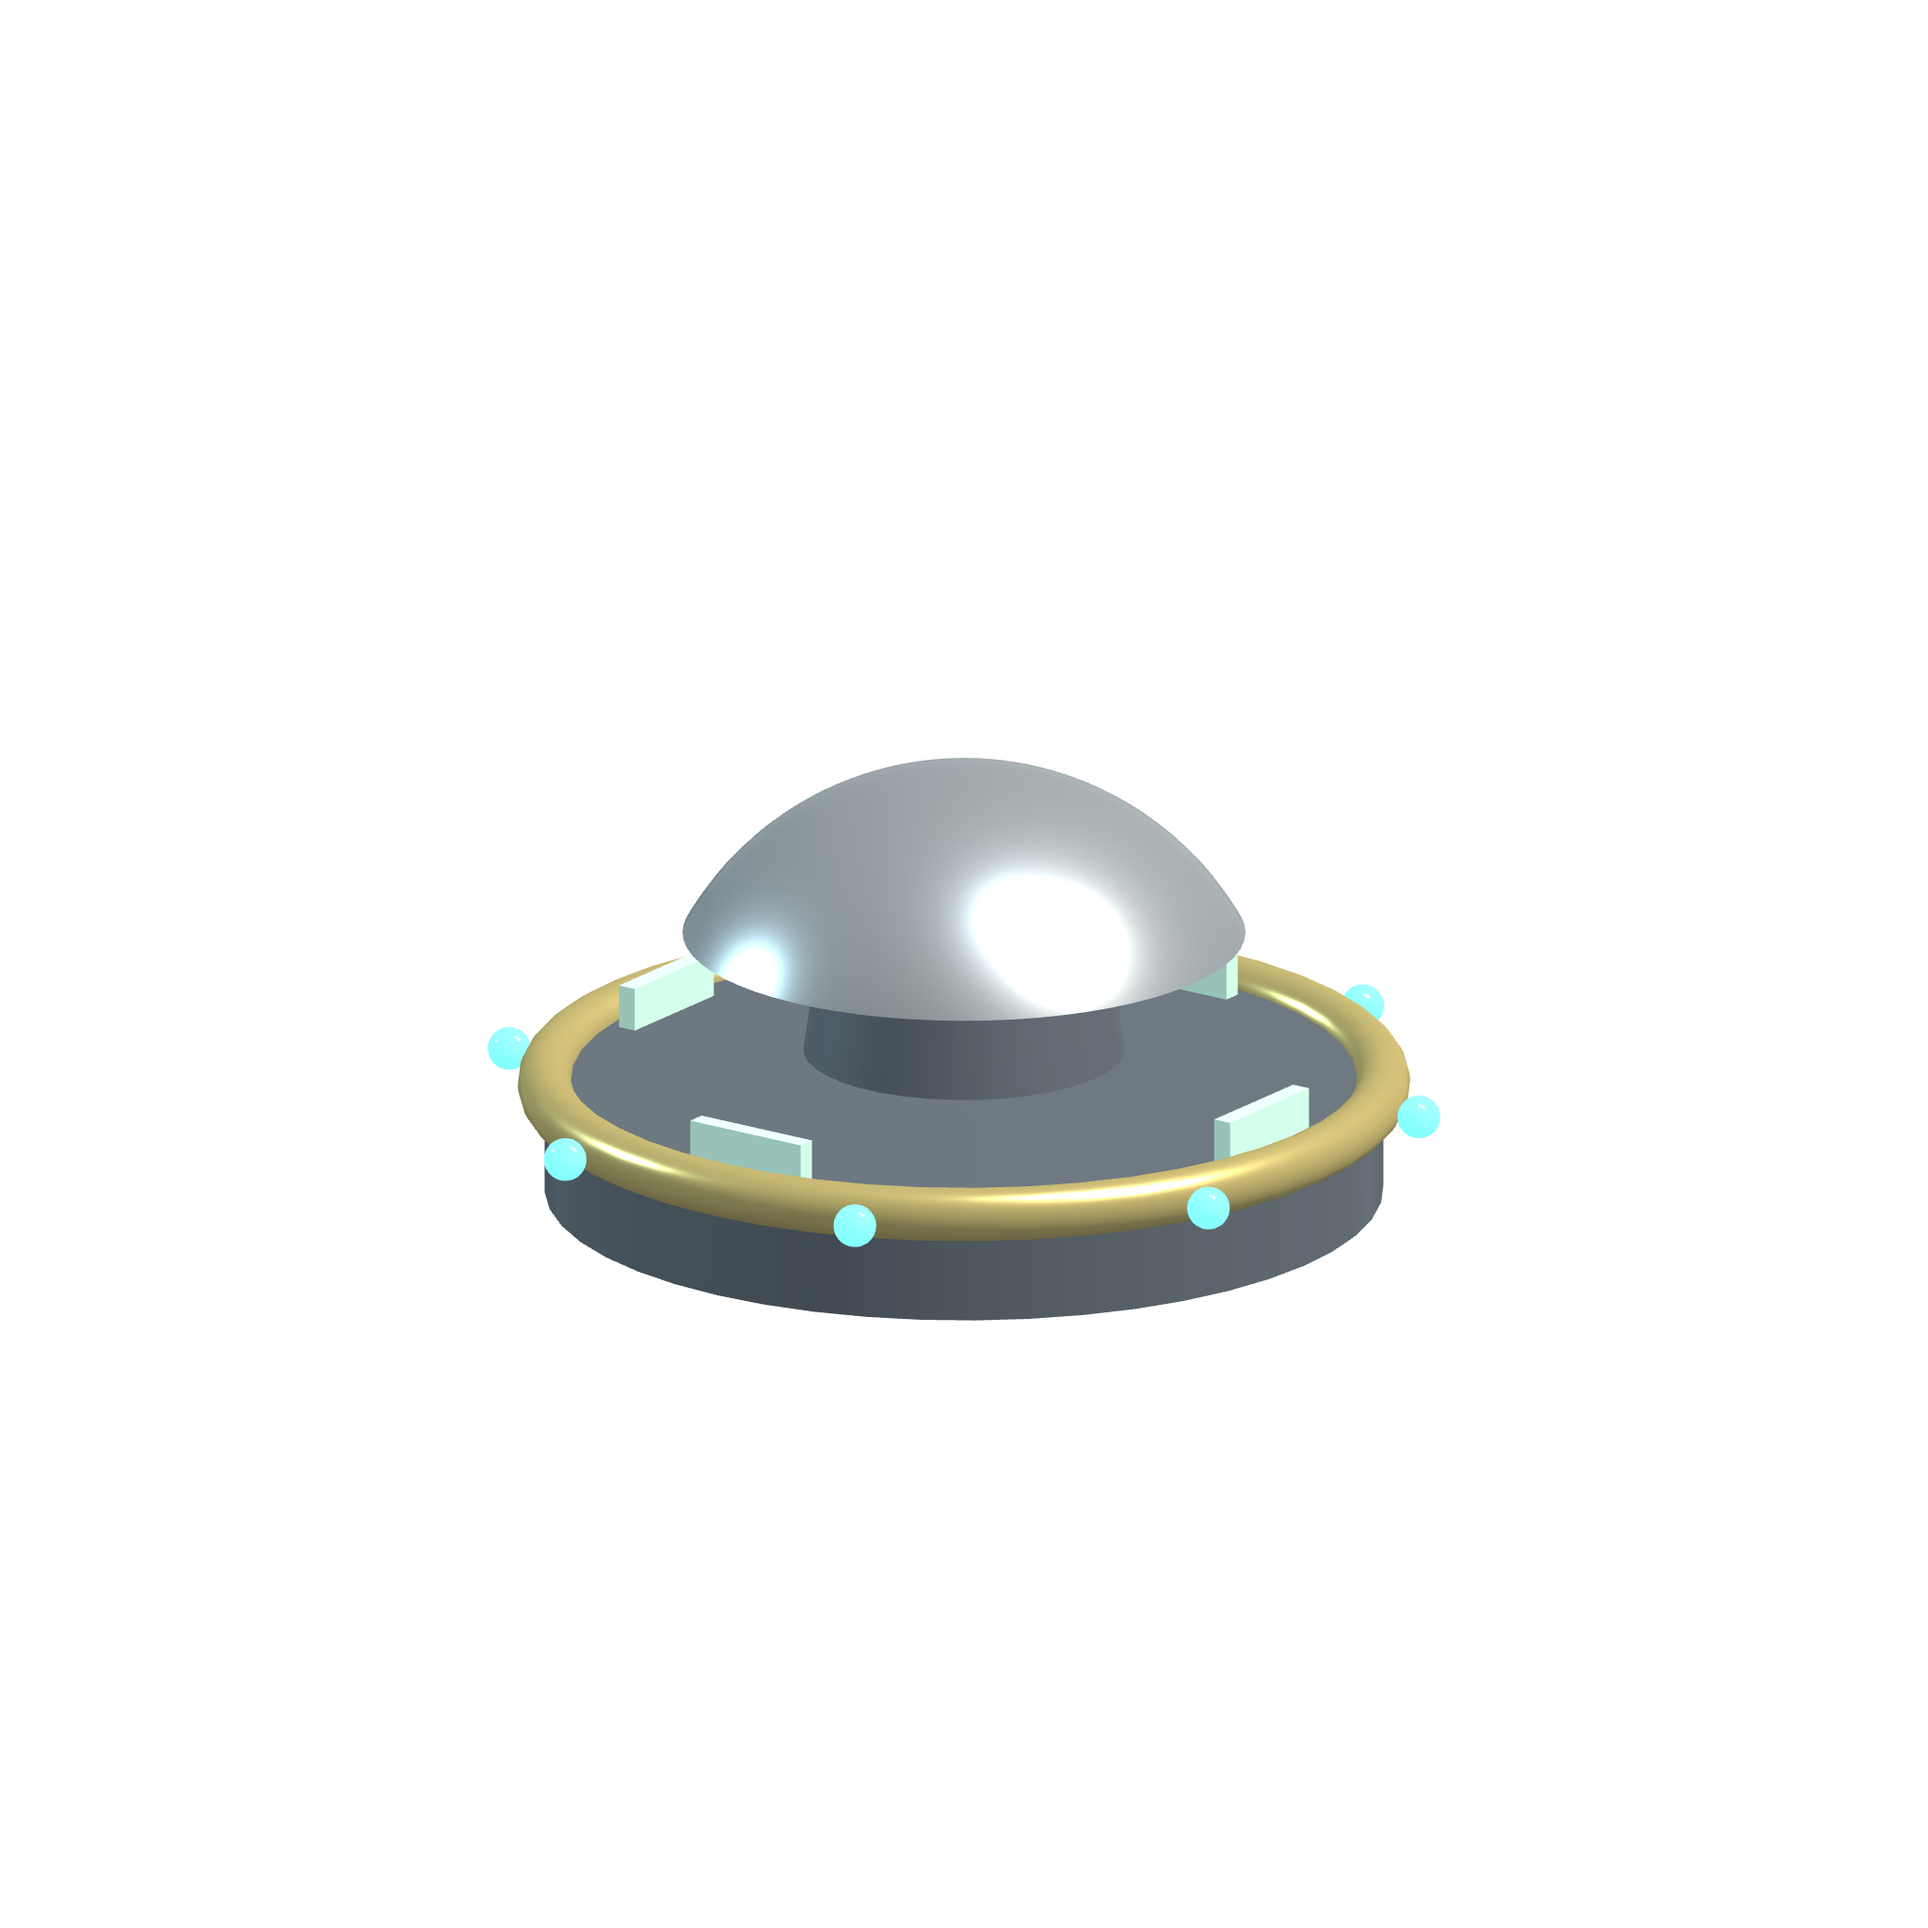
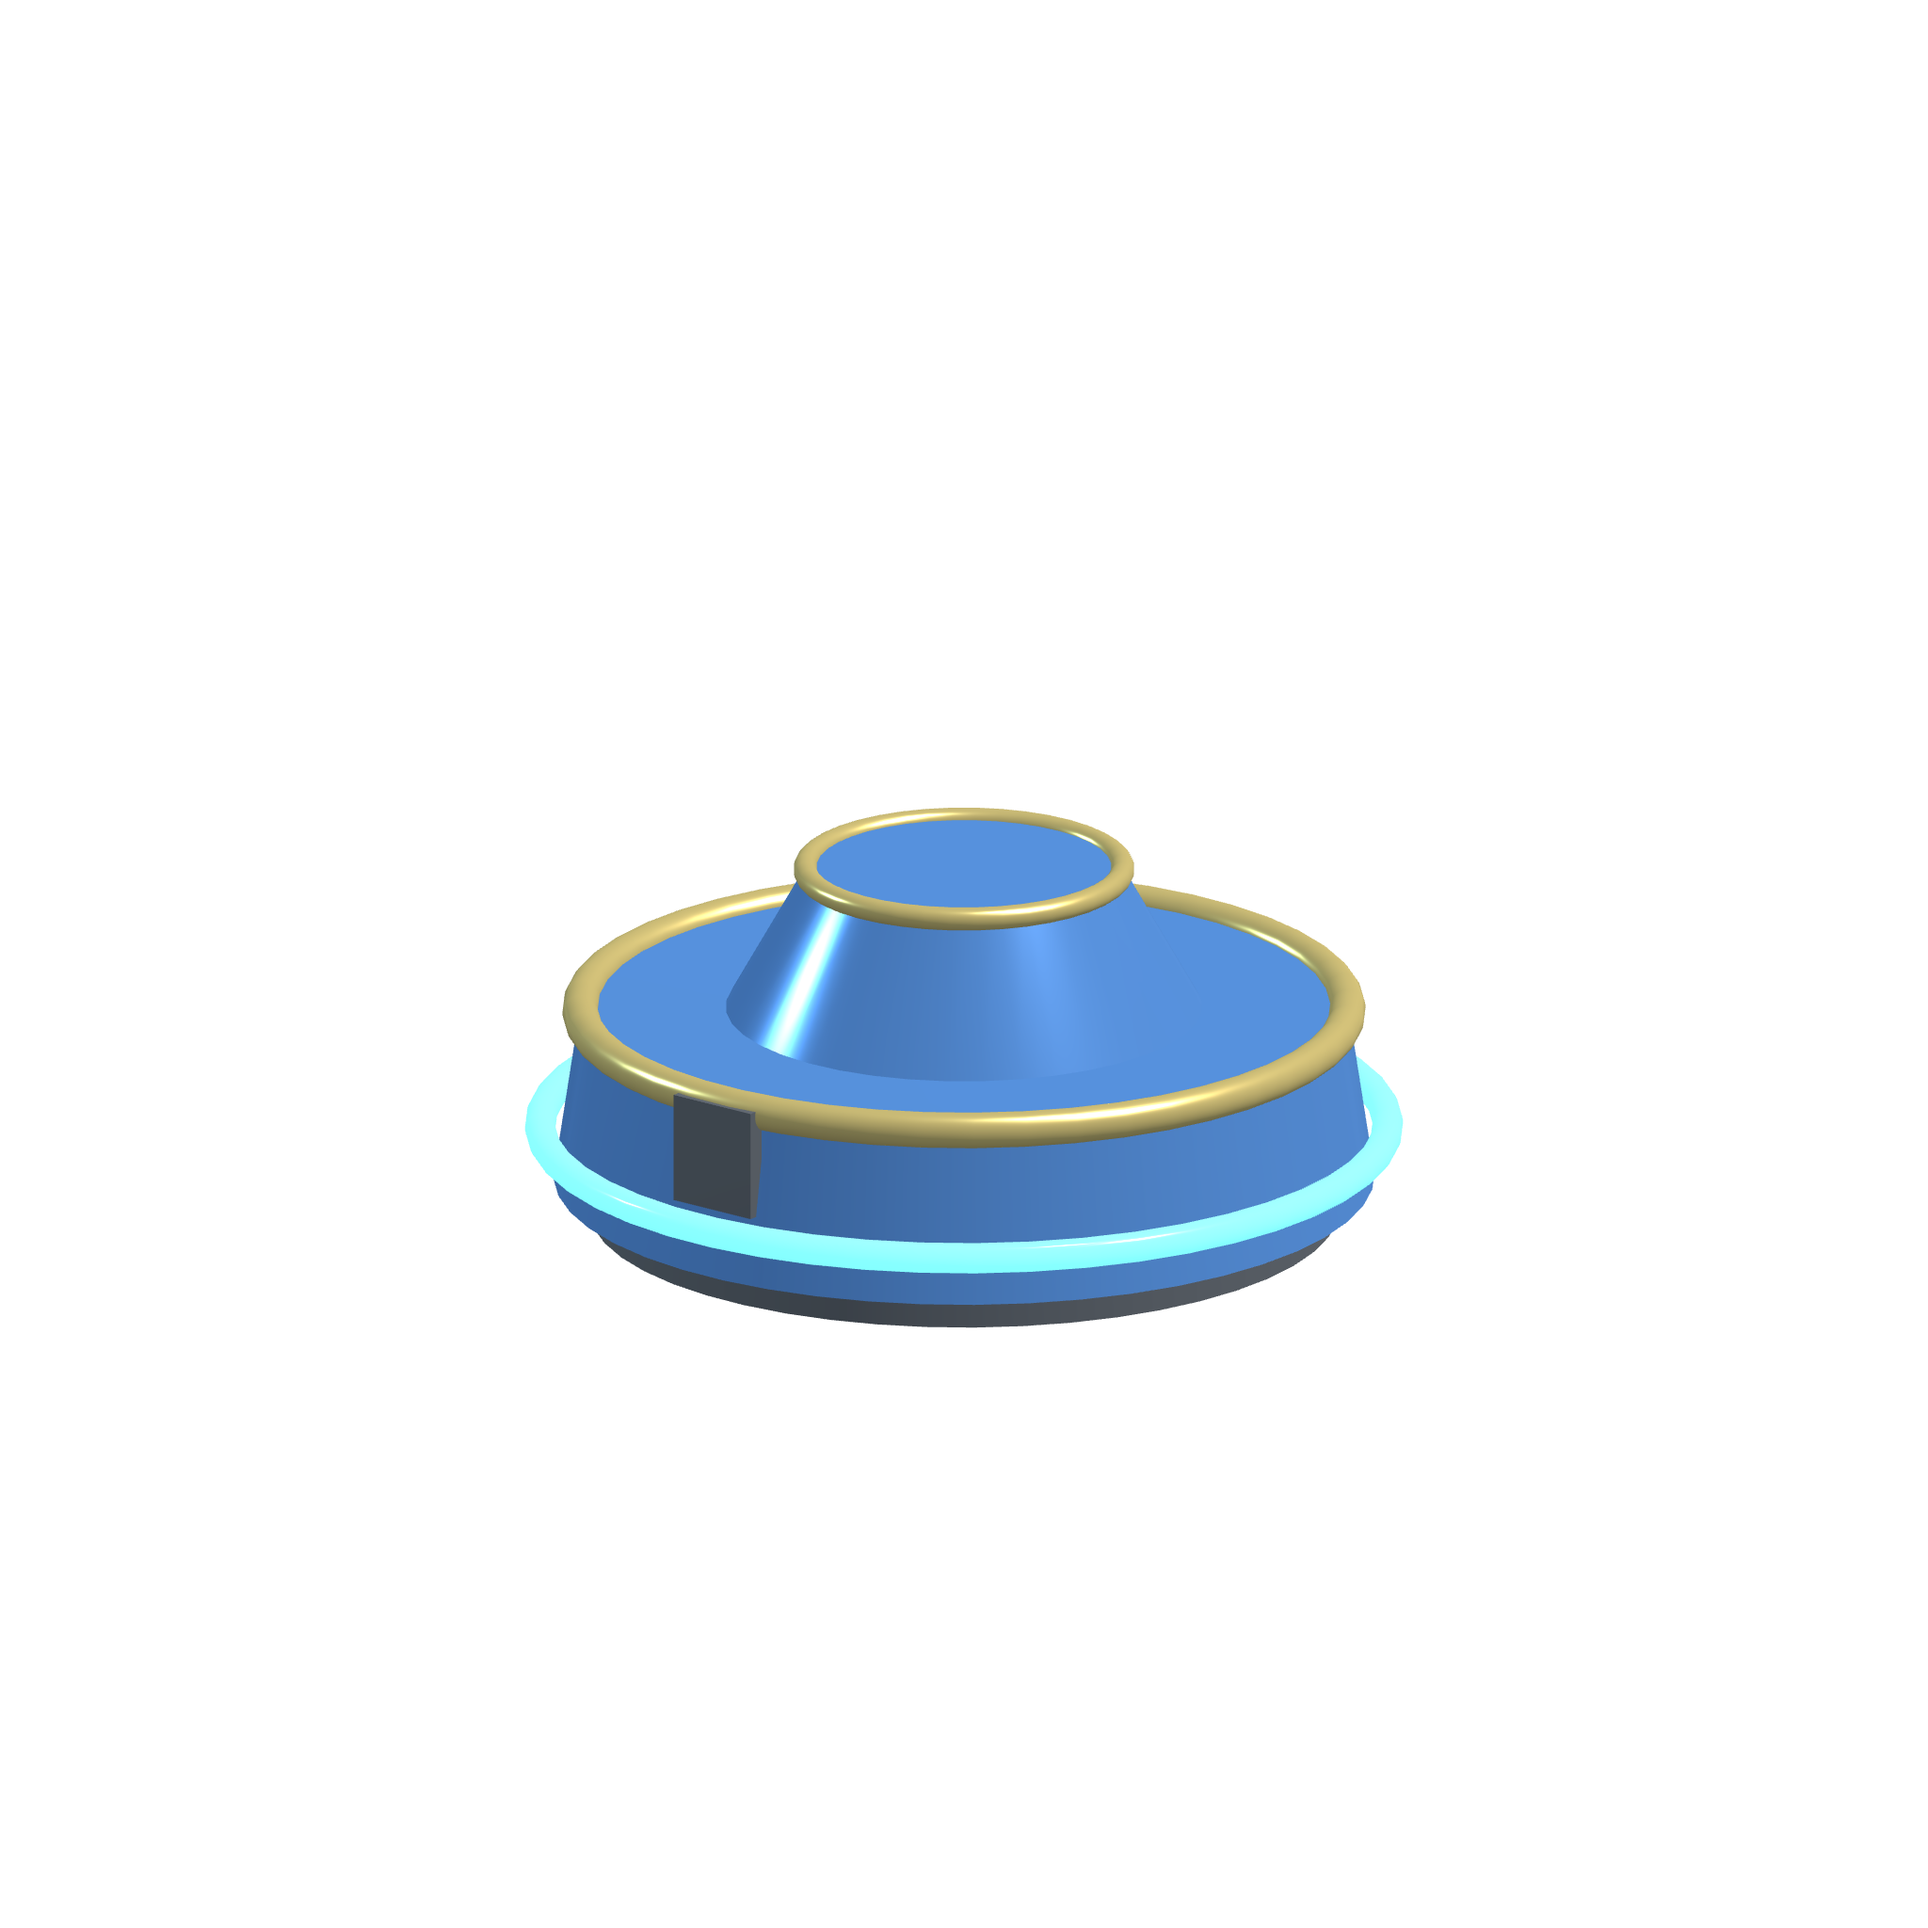
fix(turbo-pulse): refonte du canon 3D sur reference visuelle (bleu/or, rotule, badge)
Refonte complete du modele Babylon (hors-runtime) sur une reference visuelle
fournie par l'utilisateur : corps bleu sature (au lieu du gris metal brosse),
bandeau lumineux cyan large (au lieu de LED ponctuelles), deux bandes dorees
sur le canon, articulation a rotule bleue avec collier dore, et un badge
bouclier/eclair approxime par primitives (boite + zigzag en deux segments).

Pivot recalcule et badge repositionne a partir de la direction pivot->camera
reelle (camera.position), pas devinee : le premier essai placait le badge du
cote oppose a la camera, entierement cache derriere la rotule.

Changed region(s): [[0.25, 0.375, 0.75, 0.6875]]

diff --git a/frontend/src/games/turbo-pulse/TurboPulseGame.ts b/frontend/src/games/turbo-pulse/TurboPulseGame.ts
@@ -47,7 +47,11 @@ const SHOT_SPEED = 620;
 // d'articulation du bras) tombe donc au même endroit dans les deux images,
 // mesuré une fois pour toutes sur les rendus exportés.
 const CANNON_PIVOT_ORIGIN_X = 0.5;
-const CANNON_PIVOT_ORIGIN_Y = 0.4956;
+// Remonté (0.4956 → 0.4473) après la refonte "référence visuelle" : la
+// rotule/le pivot vit maintenant plus haut dans la scène Babylon (au sommet
+// du col, au-dessus du socle bleu élargi), donc plus haut aussi dans le
+// cadrage caméra partagé par les deux images.
+const CANNON_PIVOT_ORIGIN_Y = 0.4473;
 // La caméra 3/4 fait reposer le tube à ~-10.9° (et non à l'horizontale) dans
 // l'image non tournée : sans cette correction, l'orientation visuelle du
 // canon dérive de la vraie trajectoire du tir (calculée séparément à partir
